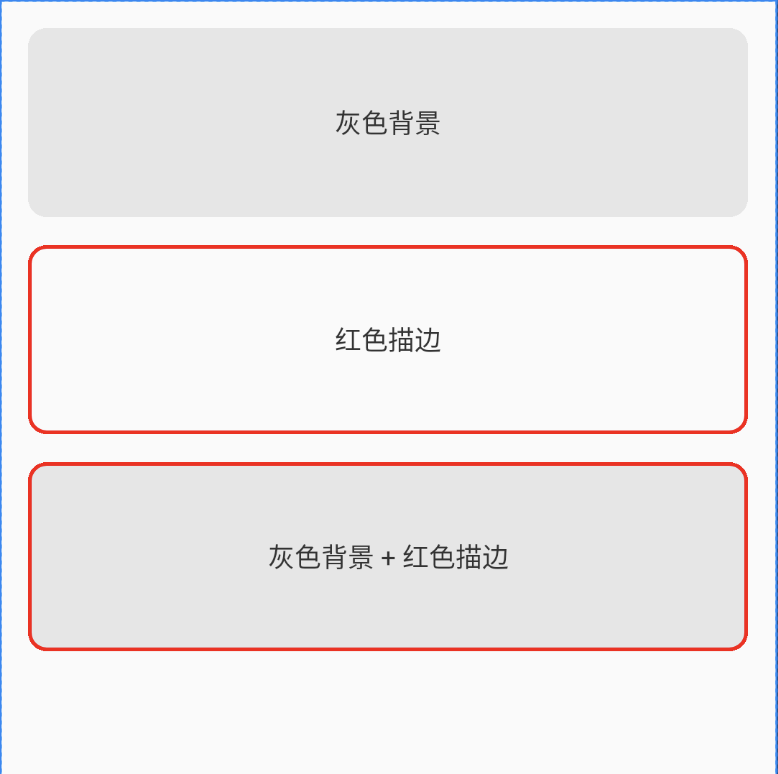
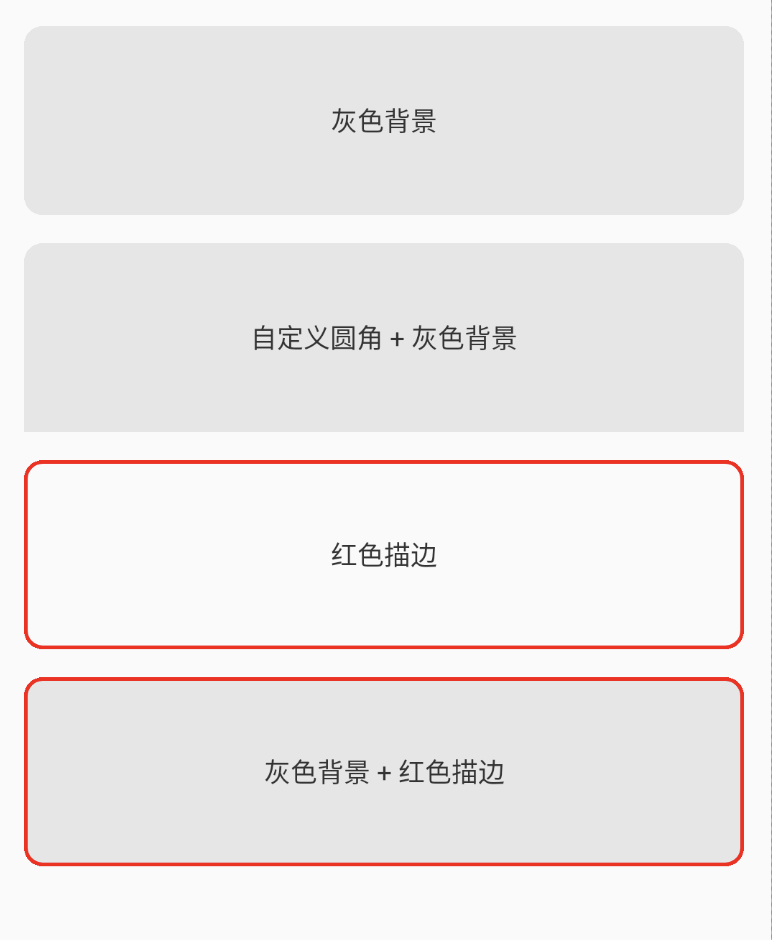
custom radius

diff --git a/README.md b/README.md
@@ -16,15 +16,15 @@ implementation 'me.codego.view:round-layout:1.0@aar'
 <me.codego.view.RoundLayout
         android:id="@+id/first_layout"
         android:layout_width="match_parent"
-        android:layout_height="100dp"
-        android:layout_marginStart="15dp"
-        android:layout_marginTop="15dp"
-        android:layout_marginEnd="15dp"
+        android:layout_height="wrap_content"
         android:background="#E6E6E6"
-        app:layout_constraintLeft_toLeftOf="parent"
-        app:layout_constraintRight_toRightOf="parent"
-        app:layout_constraintTop_toTopOf="parent"
-        app:round_radius="10dp">
+        app:round_stroke_color="#f00"
+        app:round_stroke_width="2dp"
+        app:round_radius="10dp"
+        app:round_topLeftRadius="10dp"
+        app:round_topRightRadius="10dp"
+        app:round_bottomLeftRadius="10dp"
+        app:round_bottomRightRadius="10dp">
 
 </me.codego.view.RoundLayout>
 ```
